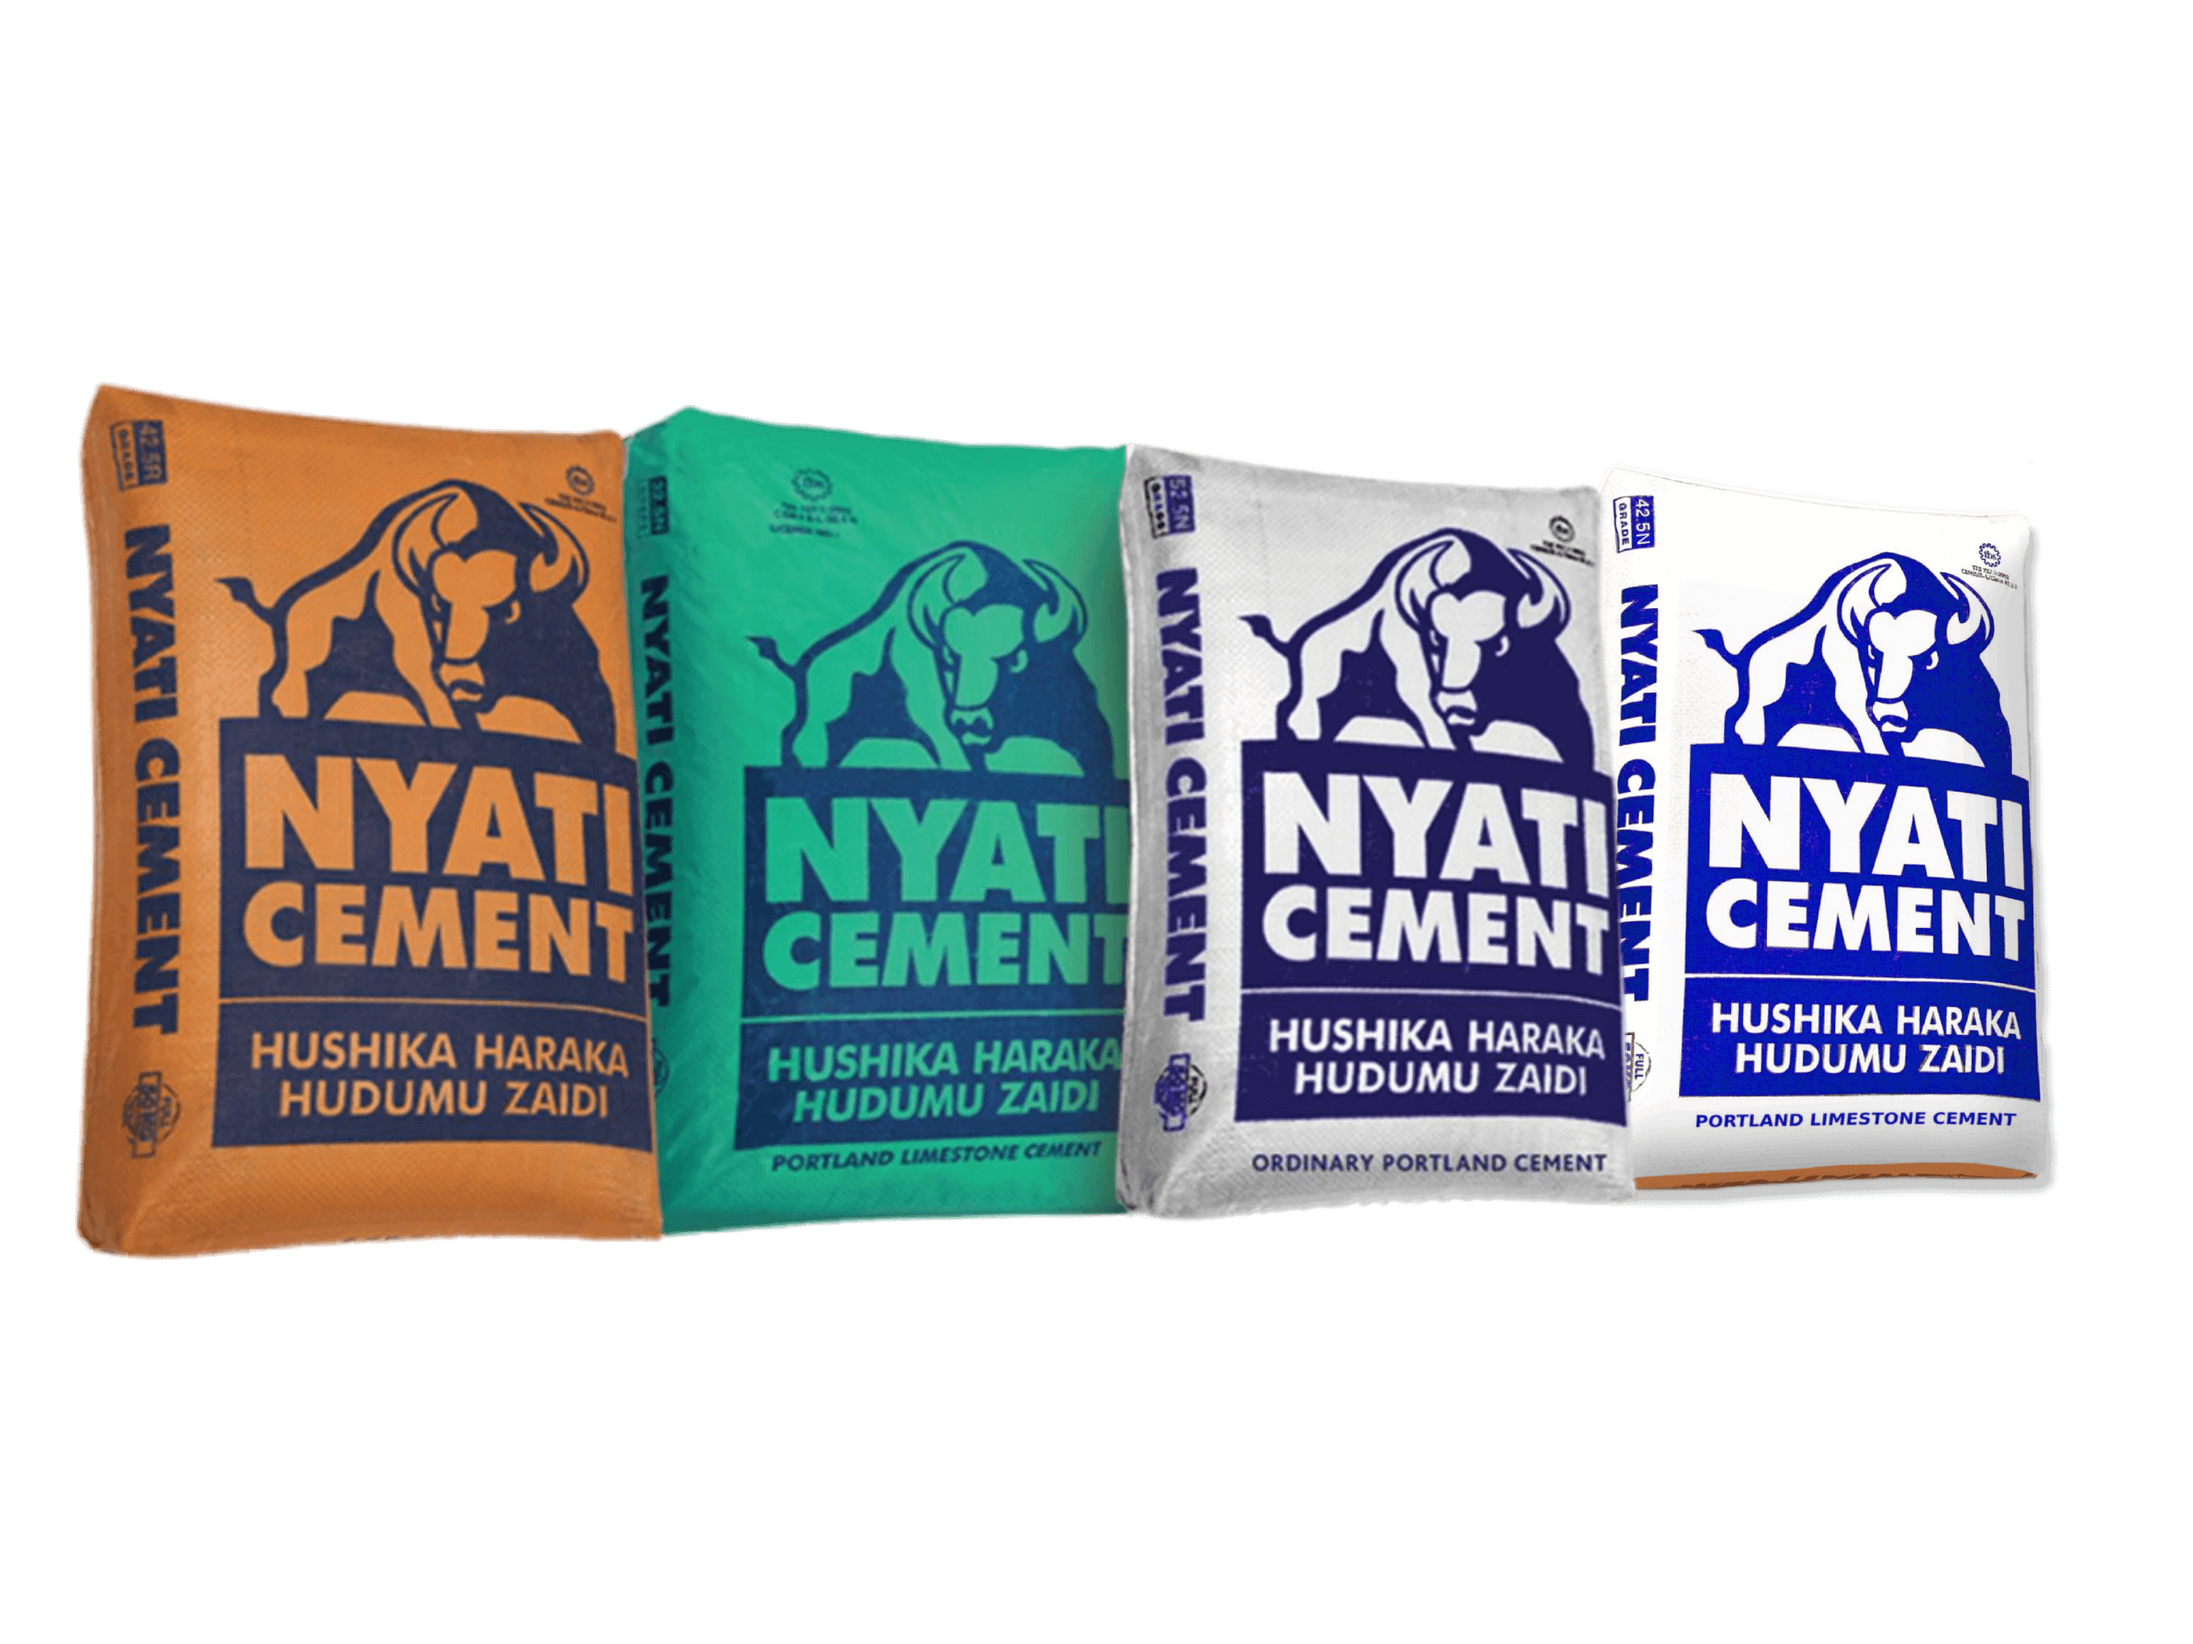
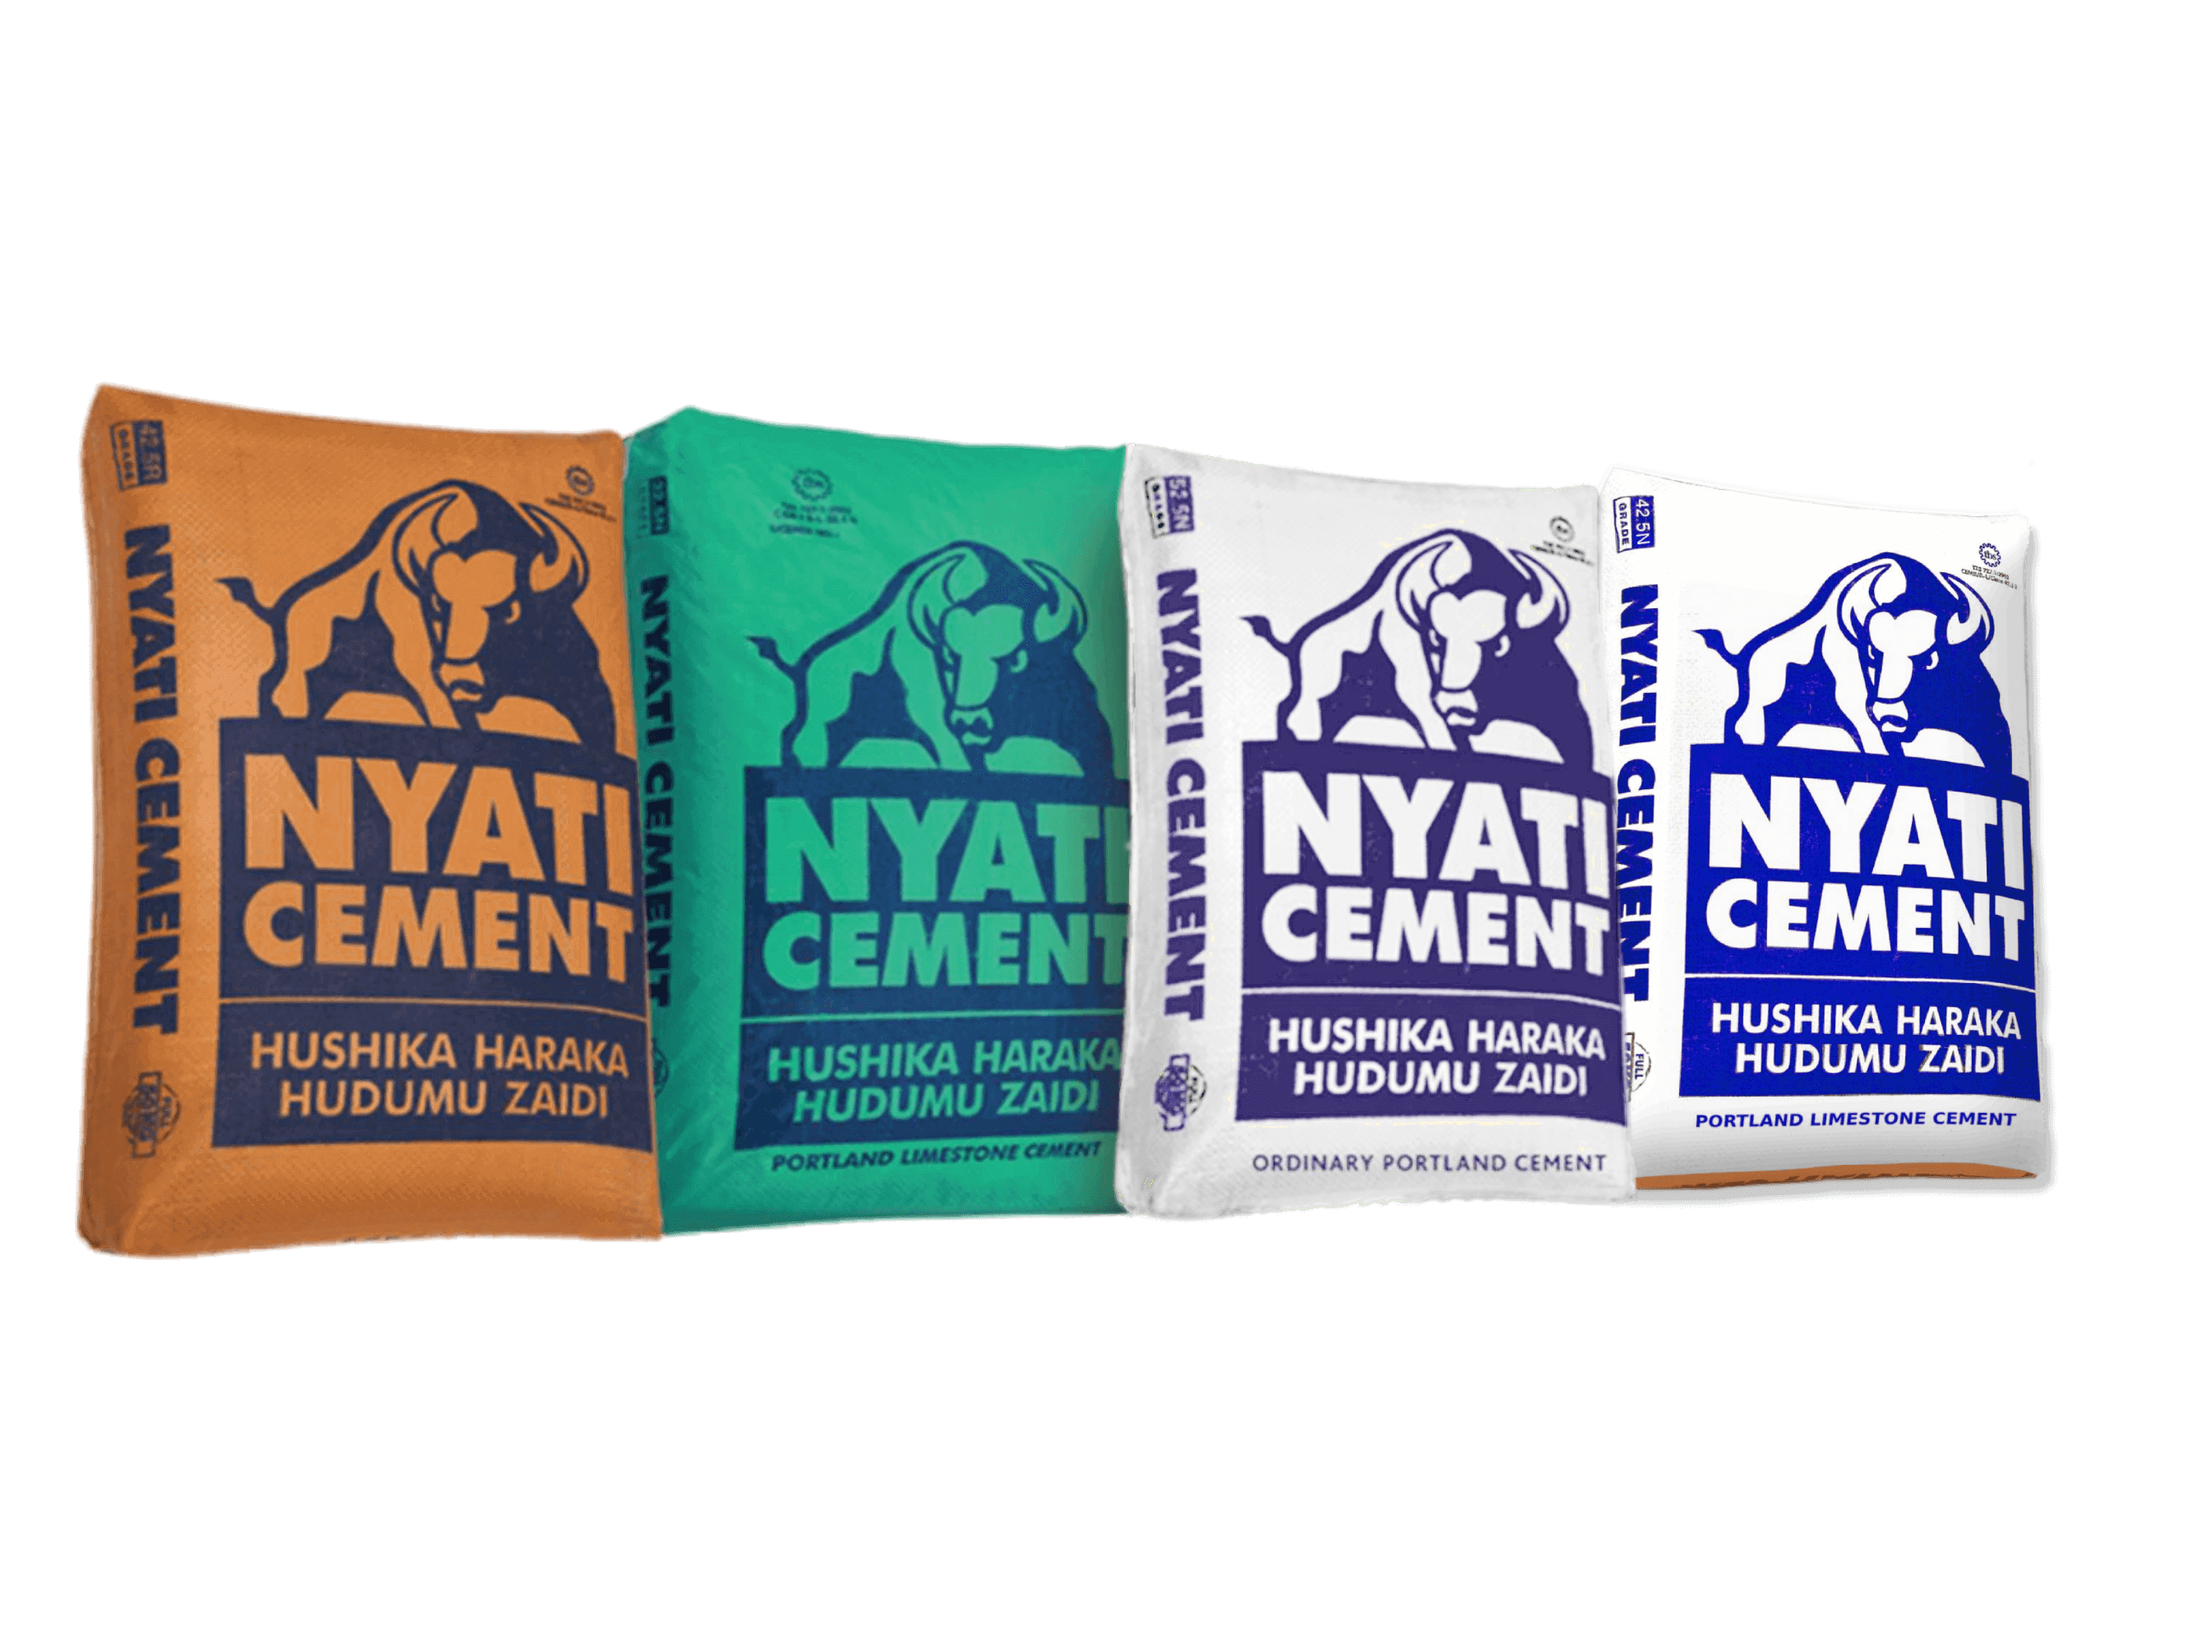
images polishing

Changed region(s): [[0.4979, 0.279, 0.7469, 0.744]]

diff --git a/app/components/sections/hero.js b/app/components/sections/hero.js
@@ -267,9 +267,44 @@ export default function Hero() {
                 >
                   <Link 
                     href="/contact" 
-                    className="inline-flex items-center space-x-2 group bg-nyati-orange text-white px-6 py-3 rounded-sm font-medium shadow-lg hover:shadow-xl transition-all duration-300"
+                    className="inline-flex items-center space-x-2 group bg-nyati-orange text-white px-6 hover:bg-nyati-light-grey py-3 rounded-sm font-medium shadow-lg hover:shadow-xl transition-all duration-300"
                   >
                     <span>CONTACT US</span>
+                    <motion.svg 
+                      xmlns="http://www.w3.org/2000/svg" 
+                      className="h-5 w-5" 
+                      fill="none" 
+                      viewBox="0 0 24 24" 
+                      stroke="currentColor"
+                      animate={{ x: [0, 5, 0] }}
+                      transition={{ 
+                        duration: 1.5,
+                        repeat: Infinity,
+                        repeatType: "loop",
+                        repeatDelay: 2
+                      }}
+                    >
+                      <path strokeLinecap="round" strokeLinejoin="round" strokeWidth={2} d="M13 7l5 5m0 0l-5 5m5-5H6" />
+                    </motion.svg>
+                  </Link>
+                </motion.div>
+              </motion.div>
+
+          
+              <motion.div
+                initial={{ opacity: 0, y: 20 }}
+                animate={{ opacity: 1, y: 0 }}
+                transition={{ delay: 1.2, duration: 0.6 }}
+              >
+                <motion.div
+                  whileHover={{ scale: 1.05 }}
+                  whileTap={{ scale: 0.98 }}
+                >
+                  <Link 
+                    href="/about/certifications" 
+                    className="inline-flex items-center space-x-2 group bg-nyati-navy hover:bg-white text-white px-6 py-3 rounded-sm font-medium shadow-lg hover:shadow-xl transition-all duration-300"
+                  >
+                    <span>Tests and Statutory Certifications</span>
                     <motion.svg 
                       xmlns="http://www.w3.org/2000/svg" 
                       className="h-5 w-5" 
@@ -321,7 +356,7 @@ export default function Hero() {
               />
               
               <Image
-                src="/images/ALLNYATIBAGS.webp"
+                src="/images/ALLNYATIBAGS.png"
                 alt="Nyati Cement Product"
                 width={400}
                 height={400}

diff --git a/app/about/code-of-conduct/page.js b/app/about/code-of-conduct/page.js
@@ -327,7 +327,7 @@ export default function CodeOfConductPage() {
                   y: -5,
                   boxShadow: "0 10px 15px -3px rgba(0, 0, 0, 0.1), 0 4px 6px -2px rgba(0, 0, 0, 0.05)"
                 }}
-                className="bg-nyati-light-orange/10 rounded-sm shadow-sm p-4 flex items-start hover:shadow-md transition-all duration-300"
+                className="bg-nyati-light-orange/ hover:bg-nyati-orange rounded-sm shadow-sm p-4 flex items-start hover:shadow-md transition-all duration-300"
               >
                 <div className="w-12 h-12 bg-blue-100 rounded-sm flex items-center justify-center mr-4 text-nyati-bg-nyati-navy flex-shrink-0">
                   {icons[value.icon]}

diff --git a/app/about/about-us/page.js b/app/about/about-us/page.js
@@ -101,7 +101,7 @@ const CoreValueCard = ({ icon, title, description }) => {
       onMouseLeave={() => setIsHovered(false)}
       className="bg-white rounded-sm overflow-hidden shadow-md relative group"
     >
-      <div className={`p-5 transition-all duration-300 ${isHovered ? 'bg-nyati-light-orange bg-opacity-5' : ''}`}>
+      <div className={`p-5 transition-all duration-300 ${isHovered ? 'bg-nyati-orange' : ''}`}>
         <div className="flex mb-3">
           <div className="w-12 h-12 bg-nyati-orange/10 rounded-sm flex items-center justify-center mr-3">
             <span className="text-nyati-orange text-xl">{icon}</span>

diff --git a/app/about/certifications/page.js b/app/about/certifications/page.js
@@ -233,7 +233,7 @@ export default function CertificationsPage() {
         </div>
       </section>
 
-      <main className="py-12">
+      <main className="py-12 max-w-7xl mx-auto">
         <motion.div variants={staggerContainer} className="space-y-6">
           {filteredCertifications.map((section, sectionIndex) => (
             <motion.section 

diff --git a/app/news/page.js b/app/news/page.js
@@ -165,7 +165,7 @@ export default function NewsPage() {
           {/* Background Image */}
           <div className="absolute inset-0">
             <Image 
-              src="/images/news/RC-Chalamila.png"
+              src="/images/news/crb.jpg"
               alt="Latest News and Updates"
               fill
               priority
